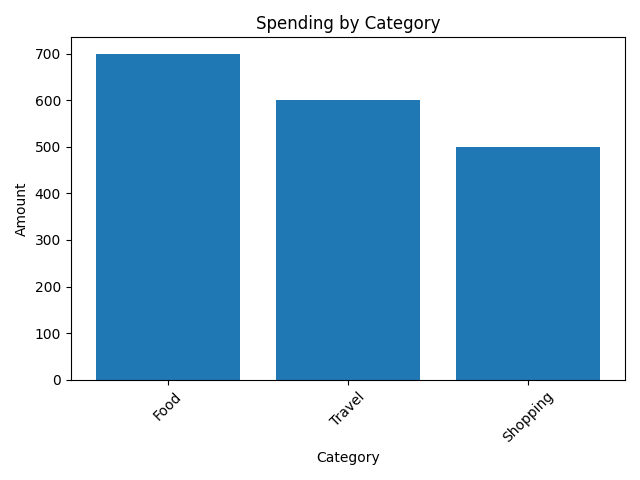
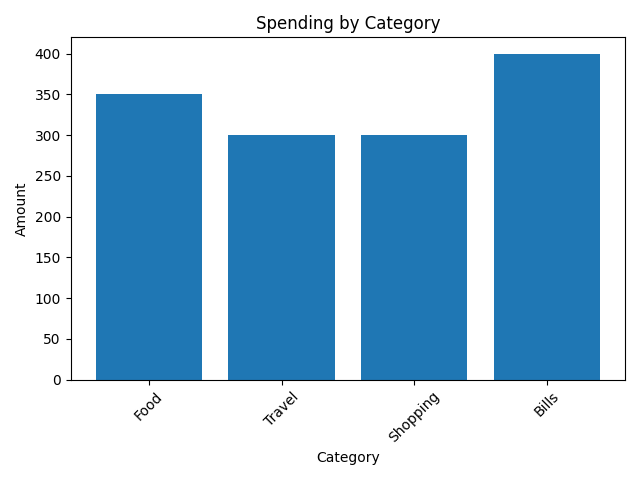
Fixed chart issues and improved plotting

diff --git a/charts.py b/charts.py
@@ -20,7 +20,10 @@ def show_category_chart():
         reader = csv.DictReader(f)
         for row in reader:
             cat = row["category"]
-            amt = float(row["amount"])
+            try:
+                   amt = float(row["amount"])
+            except ValueError:
+             continue
             data[cat] = data.get(cat, 0) + amt
 
     if not data:
@@ -37,29 +40,33 @@ def show_category_chart():
     plt.show()
 
 import pandas as pd
-import matplotlib.pyplot as plt
 
 def show_monthly_chart():
     try:
-        df = pd.read_csv("expenses.csv")
+        df = pd.read_csv(FILE)
 
         if df.empty:
             print("No data to plot")
             return
 
-        # convert to datetime
-        df["date"] = pd.to_datetime(df["date"])
+        # ✅ Clean and fix data
+        df["date"] = pd.to_datetime(df["date"], errors='coerce')
+        df["amount"] = pd.to_numeric(df["amount"], errors='coerce')
 
-        # group by month
+        # remove invalid rows
+        df = df.dropna(subset=["date", "amount"])
+
+        # ✅ Group by month
         monthly = df.groupby(df["date"].dt.to_period("M"))["amount"].sum()
 
-        # convert index to string for plotting
-        monthly.index = monthly.index.astype(str)
+        # ✅ Convert index to proper datetime (IMPORTANT FIX)
+        monthly.index = monthly.index.to_timestamp()
 
-        # sort values (VERY IMPORTANT)
+        # ✅ Sort correctly
         monthly = monthly.sort_index()
 
-        # plot
+        # ✅ Plot
+        plt.figure()
         plt.plot(monthly.index, monthly.values, marker="o")
         plt.title("Monthly Spending Trend")
         plt.xlabel("Month")
@@ -69,5 +76,12 @@ def show_monthly_chart():
         plt.savefig("monthly_spending.png")
         plt.show()
 
+    except FileNotFoundError:
+        print("expenses.csv file not found")
     except Exception as e:
         print("Error:", e)
+
+
+if __name__ == "__main__":
+    show_category_chart()
+    show_monthly_chart()
